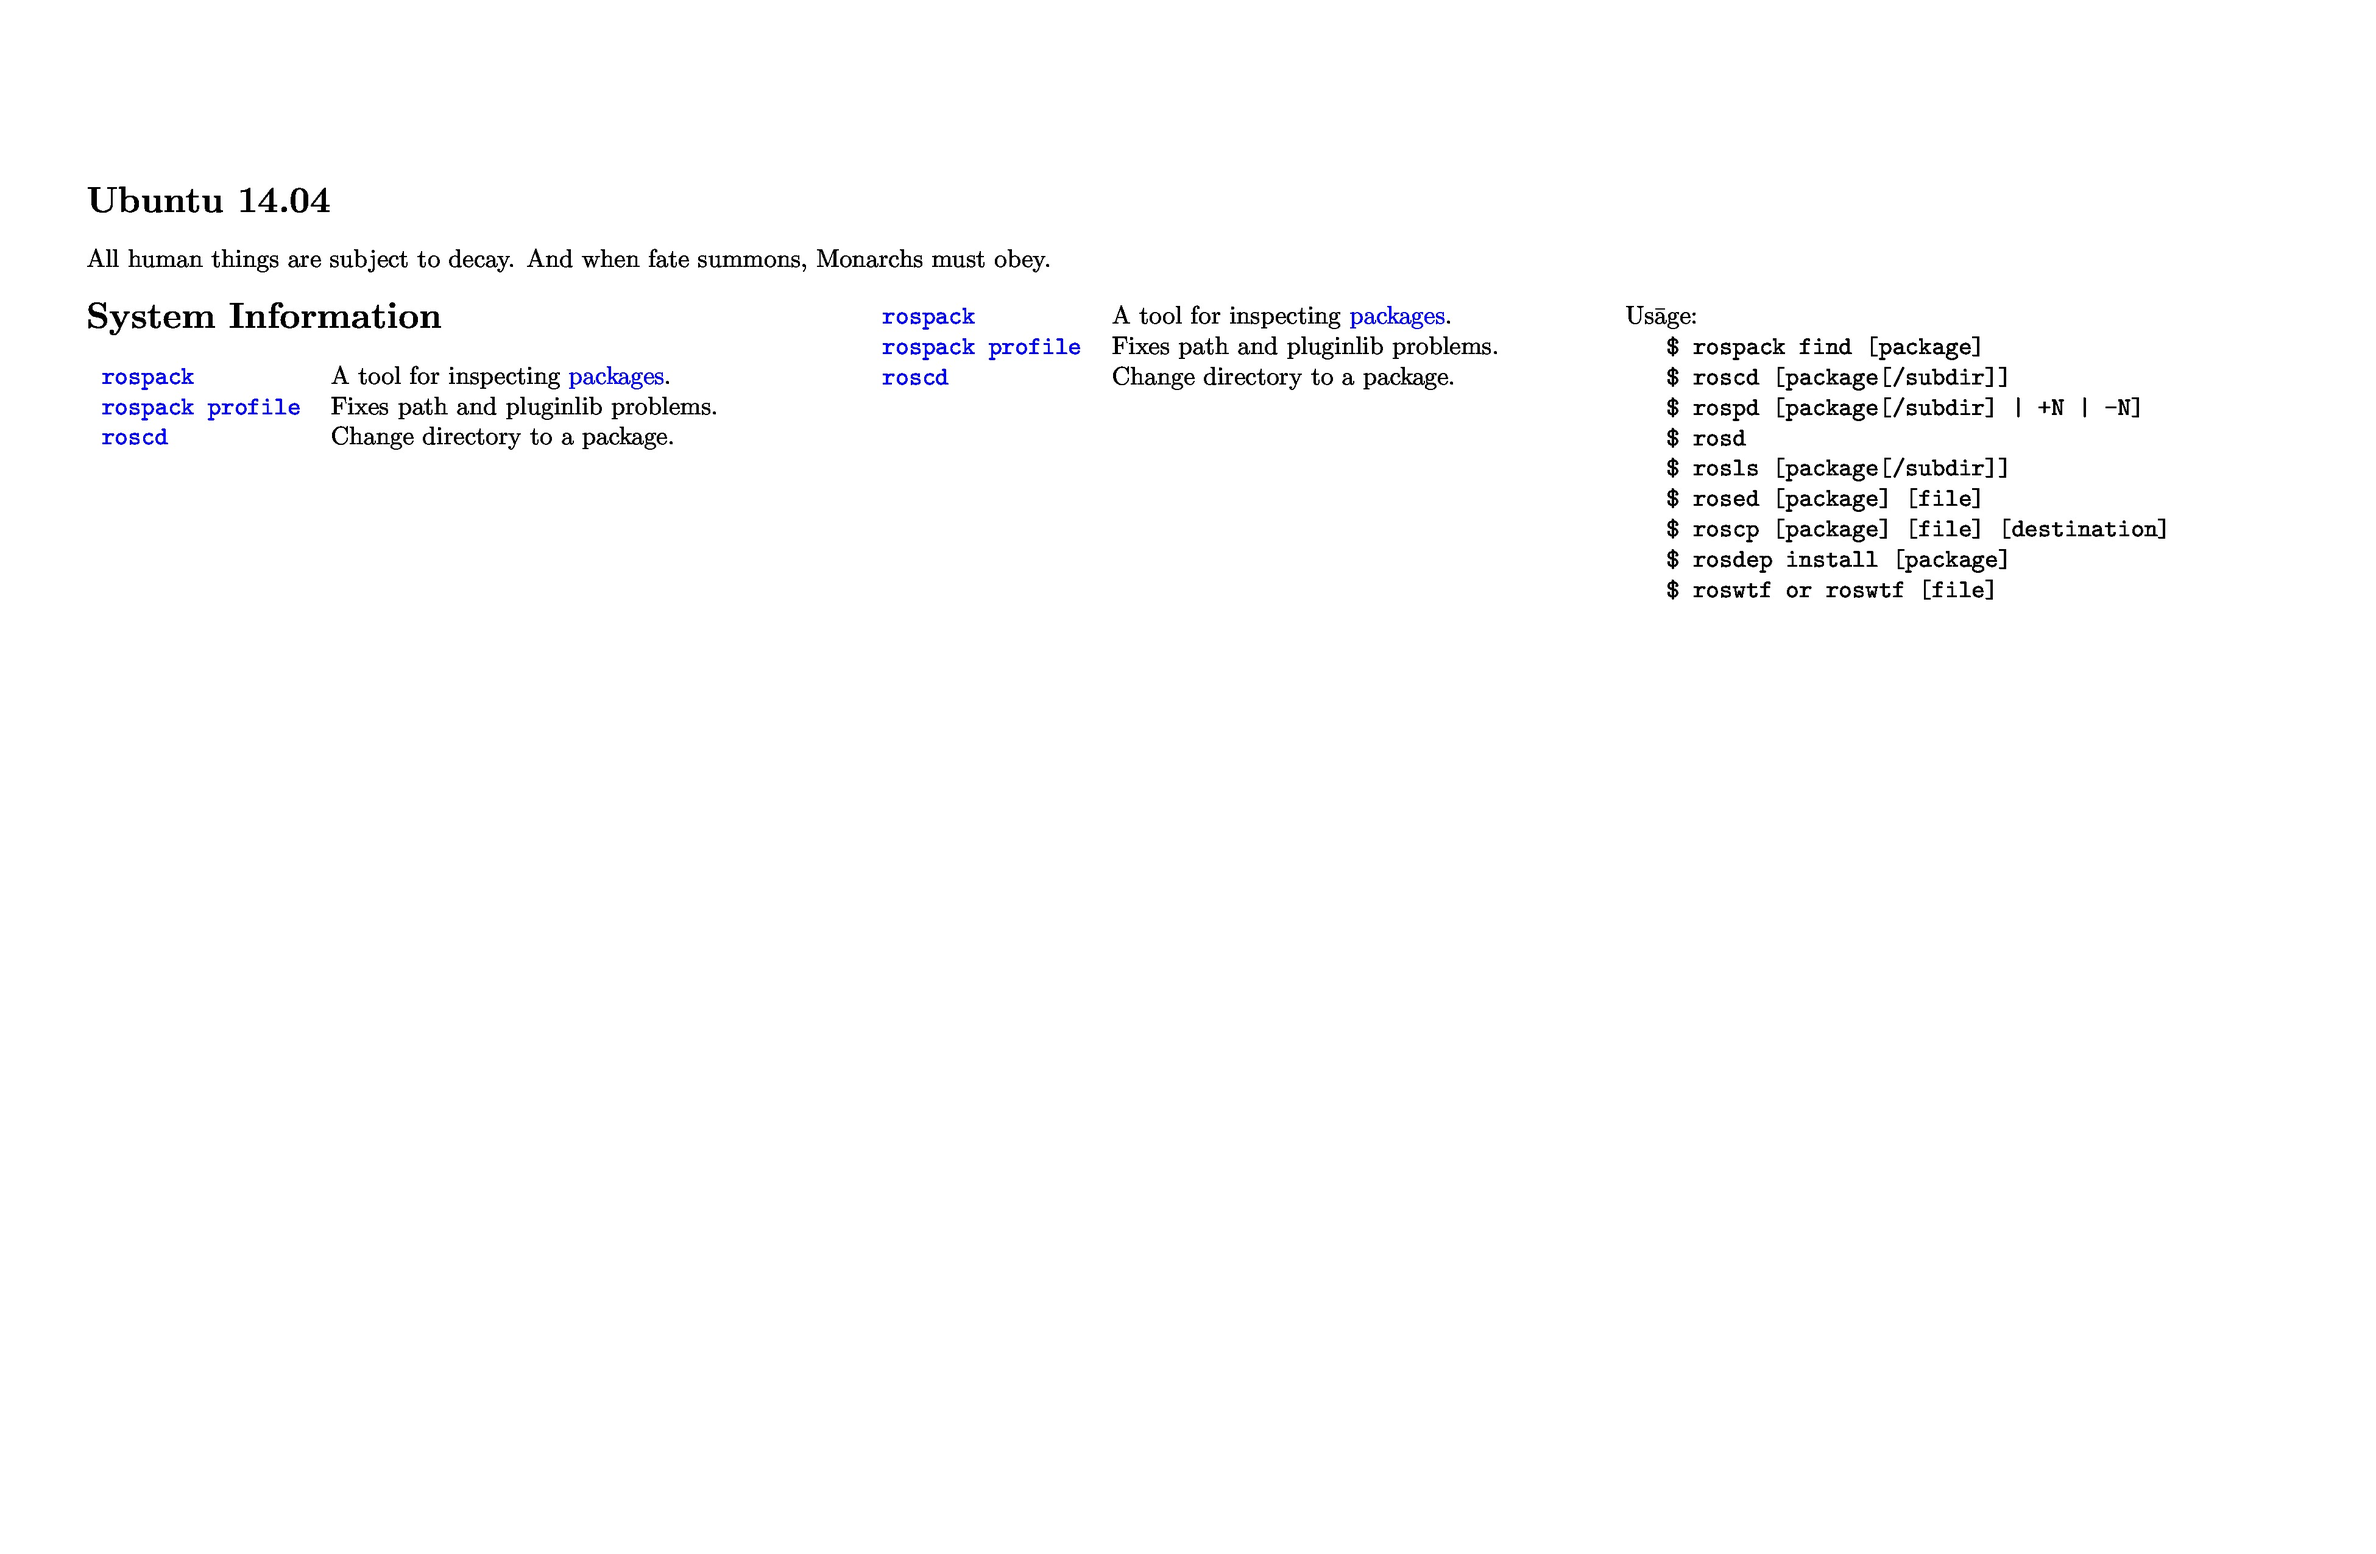
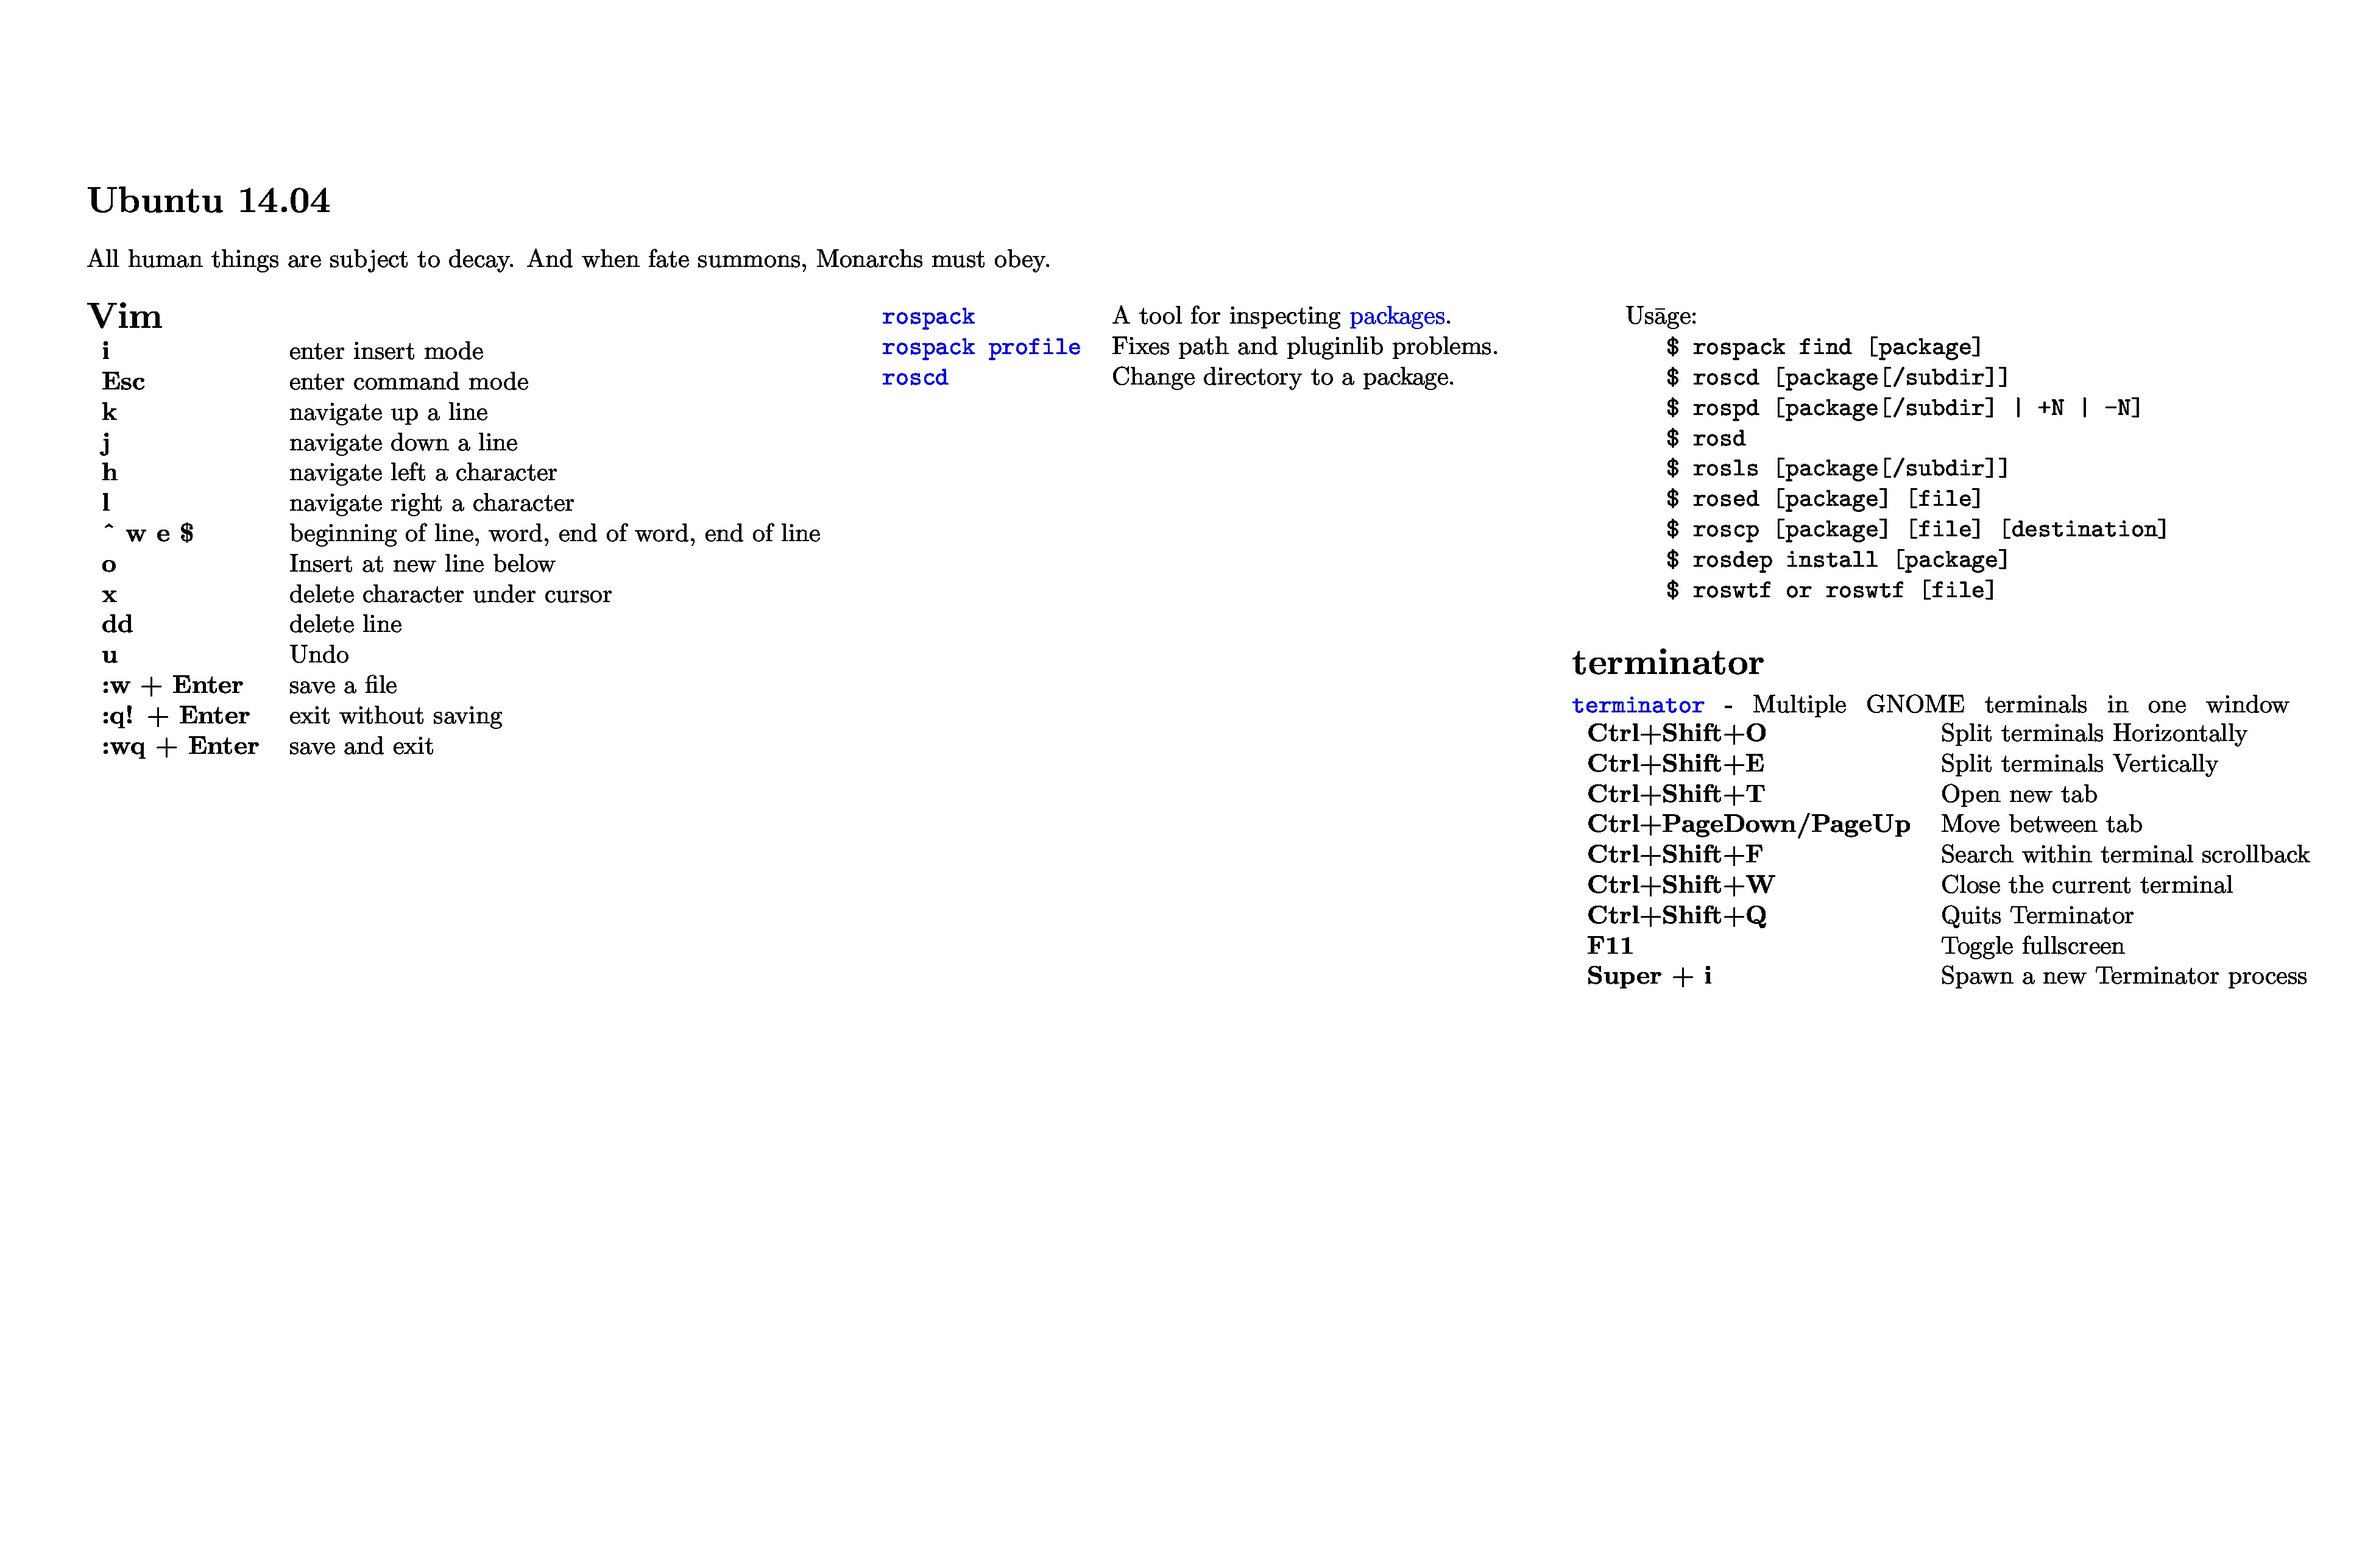
Commit

diff --git a/latex/cheatsheet/Ubuntu_14_cheatsheet.tex b/latex/cheatsheet/Ubuntu_14_cheatsheet.tex
@@ -26,12 +26,23 @@
 All human things are subject to decay. And when fate summons, Monarchs must obey.
 ]
 
-\section*{System Information}
+\section*{Vim}
 \vspace{-0.7em}
 \begin{tabular}{l l}
-\texttt{\href{http://wiki.ros.org/rospack}{rospack}} & A tool for inspecting \href{http://wiki.ros.org/Packages}{packages}. \\
-\texttt{\href{http://docs.ros.org/independent/api/rospkg/html/rospack.html\#rospack-profile}{rospack profile}} & Fixes path and pluginlib problems. \\
-\texttt{\href{http://wiki.ros.org/rosbash\#roscd}{roscd}} & Change directory to a package. \\
+\textbf{i} & enter insert mode\\
+\textbf{Esc} & enter command mode \\
+\textbf{k} & navigate up a line\\
+\textbf{j} & navigate down a line\\
+\textbf{h} & navigate left a character\\
+\textbf{l} & navigate right a character\\
+\textbf{\^\ w e \$} & beginning of line, word, end of word, end of line\\
+\textbf{o} & Insert at new line below\\
+\textbf{x} & delete character under cursor\\
+\textbf{dd} & delete line\\
+\textbf{u} & Undo\\
+\textbf{:w + Enter} & save a file\\
+\textbf{:q! + Enter} & exit without saving\\
+\textbf{:wq + Enter} & save and exit\\
 \end{tabular}
 
 \vfill
@@ -59,6 +70,20 @@ Us\=age:\\
 \hspace{3ex} \texttt{\$ roswtf or roswtf [file]}\\
 \end{tabular}
 
+\section*{terminator}
+\vspace{-0.7em}
+\texttt{\href{https://linux.die.net/man/1/terminator}{terminator}} - Multiple GNOME terminals in one window
+\begin{tabular}{l l}
+\textbf{Ctrl+Shift+O} & Split terminals Horizontally \\
+\textbf{Ctrl+Shift+E} & Split terminals Vertically \\
+\textbf{Ctrl+Shift+T} & Open new tab \\
+\textbf{Ctrl+PageDown/PageUp} & Move between tab \\
+\textbf{Ctrl+Shift+F} & Search within terminal scrollback \\
+\textbf{Ctrl+Shift+W} & Close the current terminal \\
+\textbf{Ctrl+Shift+Q} & Quits Terminator \\
+\textbf{F11} & Toggle fullscreen \\
+\textbf{Super + i} & Spawn a new Terminator process
+\end{tabular}
 \vfill
 
 \end{multicols}
